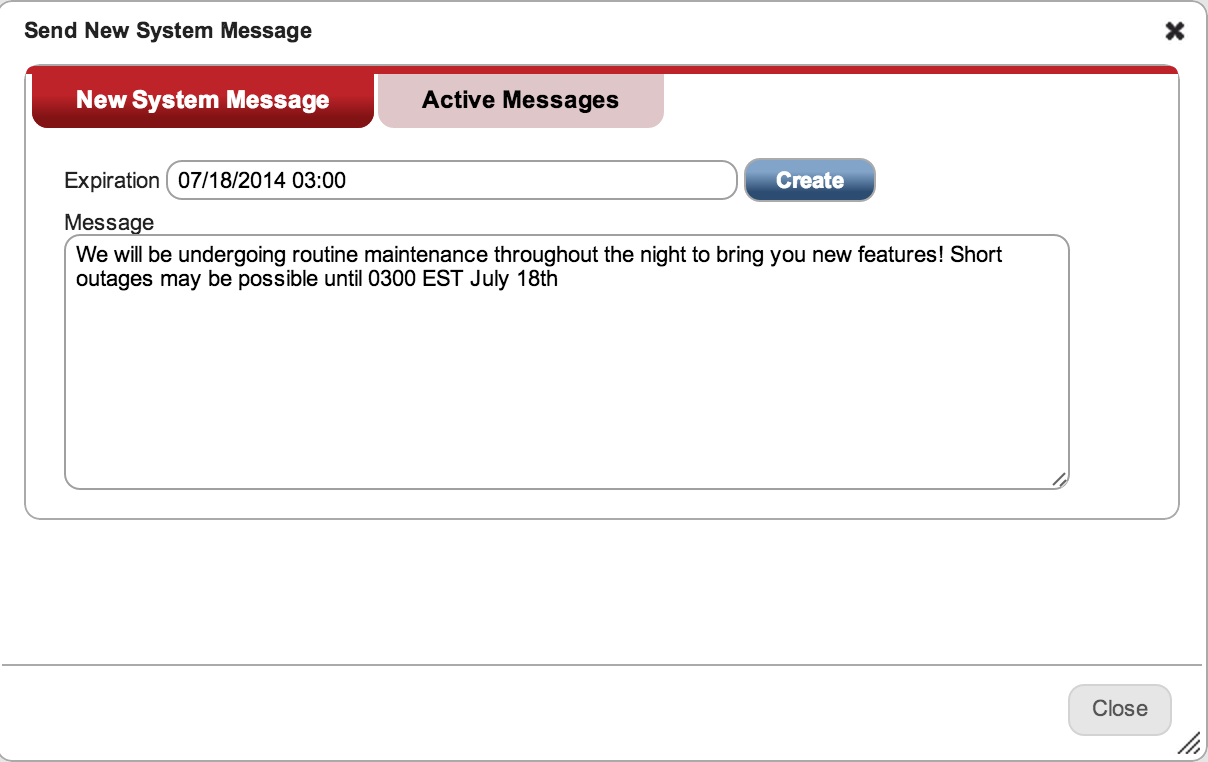
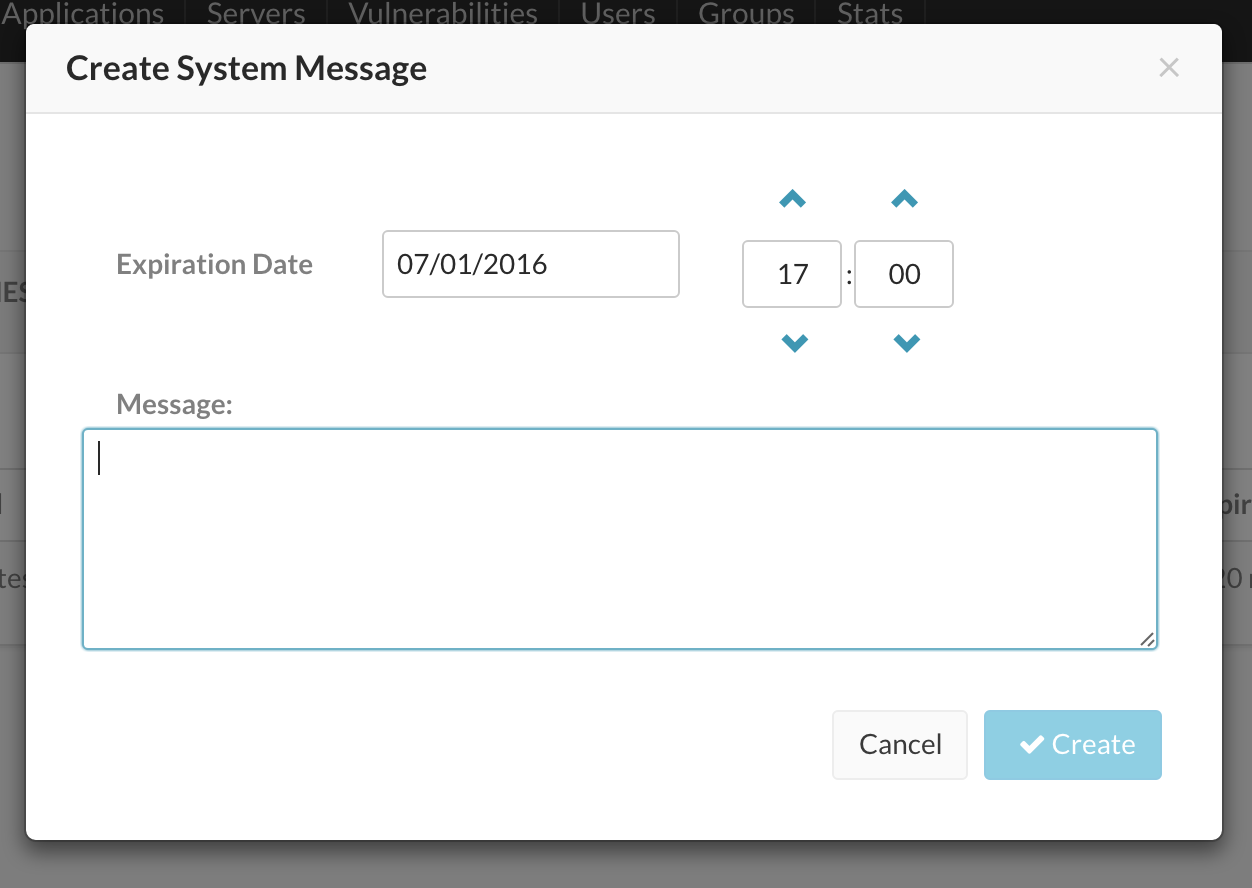
More Admin Dashboard updates

diff --git a/content/admin/teamserver/faq/ConfigureAdministratorDashboard.md b/content/admin/teamserver/faq/ConfigureAdministratorDashboard.md
@@ -1,8 +1,10 @@
 <!--
 title: "The Administrator's Dashboard"
-description: "The Administrator's Dashboard can be a little intimidating at first, especially for new Administrators. Understanding the components on this dashboard can aid administrators in understanding scaling and performance issues as well as helping to troubleshoot user problems and get the most out of your Enterprise Deployment."
+description: "Explanation of Administrator tools"
 tags: "EOP SuperAdmin System Messages Monitoring"
 -->
+
+The tools described below are designed to aid administrators in understanding scaling and performance issues, as well as to help troubleshoot user problems and get the most out of Enterprise Deployment.
 
 ## System Messages
 As Contrast becomes an integral part of your development lifecycle, it may become necessary to let users know when things like scheduled downtime will occur, or to let them know that an update has been applied and therefore agents should be updated to the latest version. System Messages provide this functionality to Administrators. 
@@ -12,11 +14,15 @@ To create a new System Message, navigate to **System Settings** from the User me
 
 The **Create a Message** button will generate a dialog allowing you to configure a system message to be broadcast to all users (either after login, or immediately if they are already logged in). This message will display until it is either deleted or reaches its expiration.
 
+<a href="assets/images/KB4-c03_1.png" rel="lightbox" title="Create System Message"><img class="thumbnail" src="assets/images/KB4-c03_1.png"/></a>
+
 When a system message has been set, a user must acknowledge it before they can continue.
 
 
 ### Deactivating System Messages
 Occasionally, you may expect something to take hours and instead it takes only a few minutes. In those cases you may wish to deactivate an active system message. To do so, simply check the box next to the message to select it and click the Delete button.
+
+<a href="assets/images/KB4-c03_2.png" rel="lightbox" title="Manage System Messages"><img class="thumbnail" src="assets/images/KB4-c03_2.png"/></a>
 
 ## Charts And Metrics
 Administrators have access to a **Stats** tab with various charts and tables that display valuable information about what is going on with the TeamServer application. At the top of the page, you can choose the refresh rate of these charts and tables.
